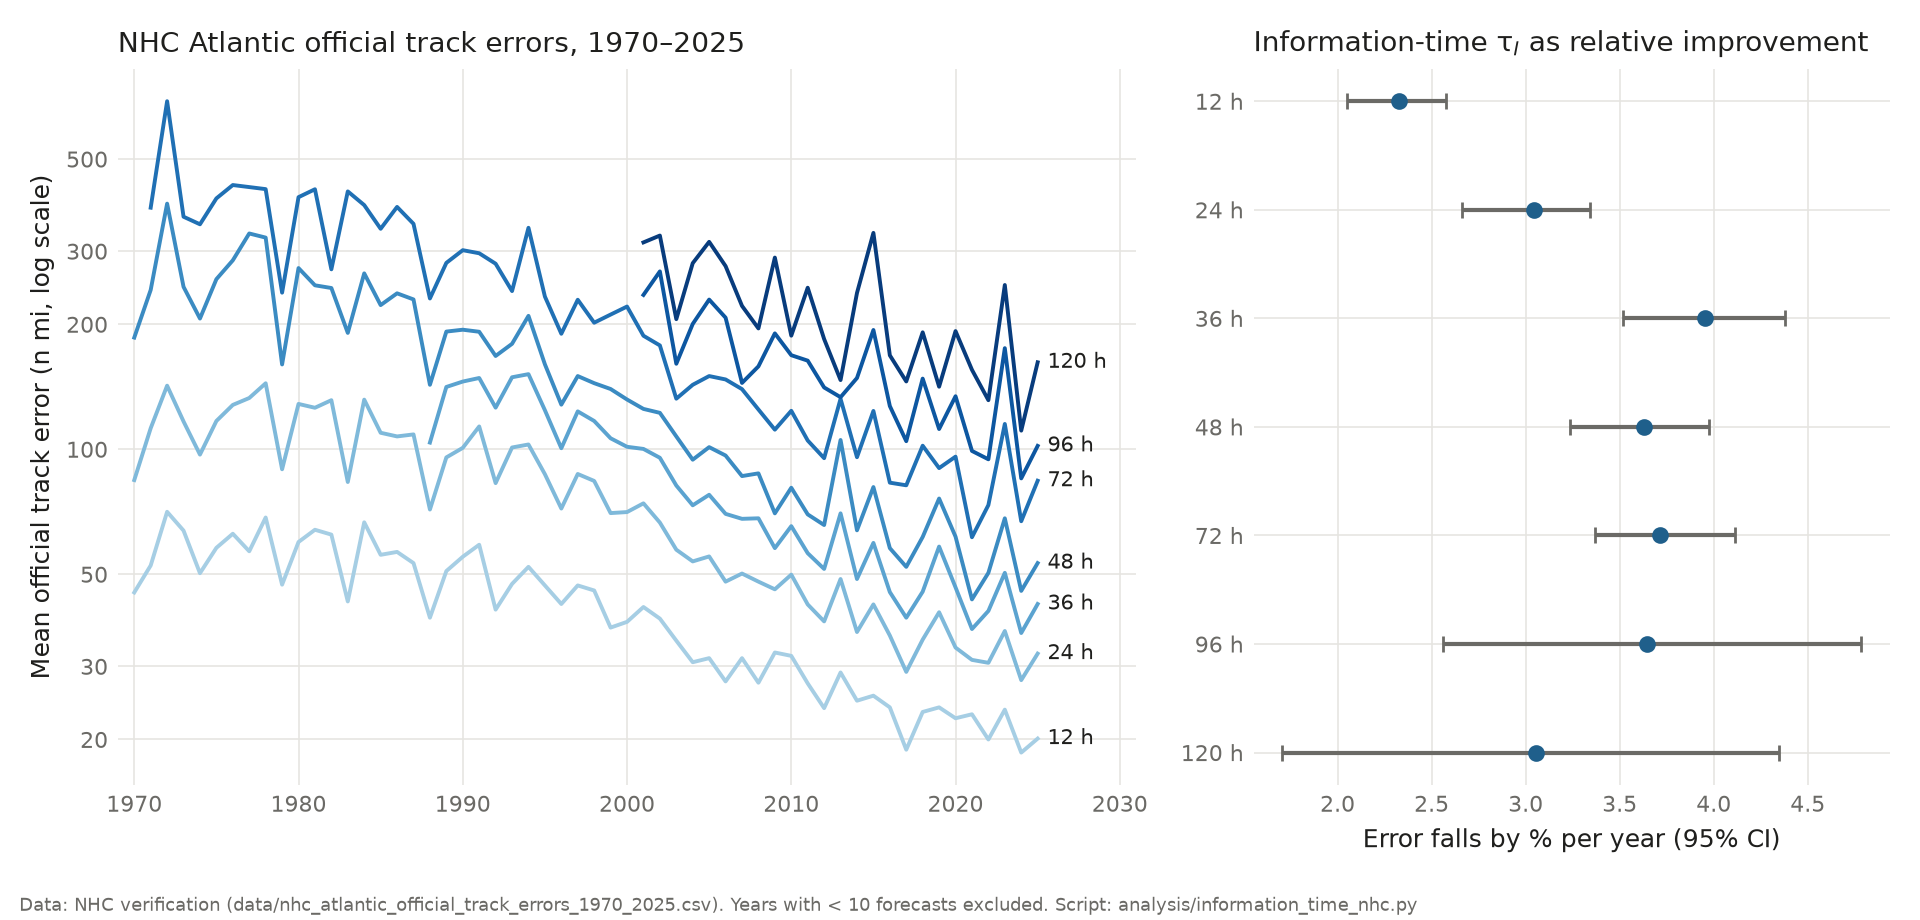
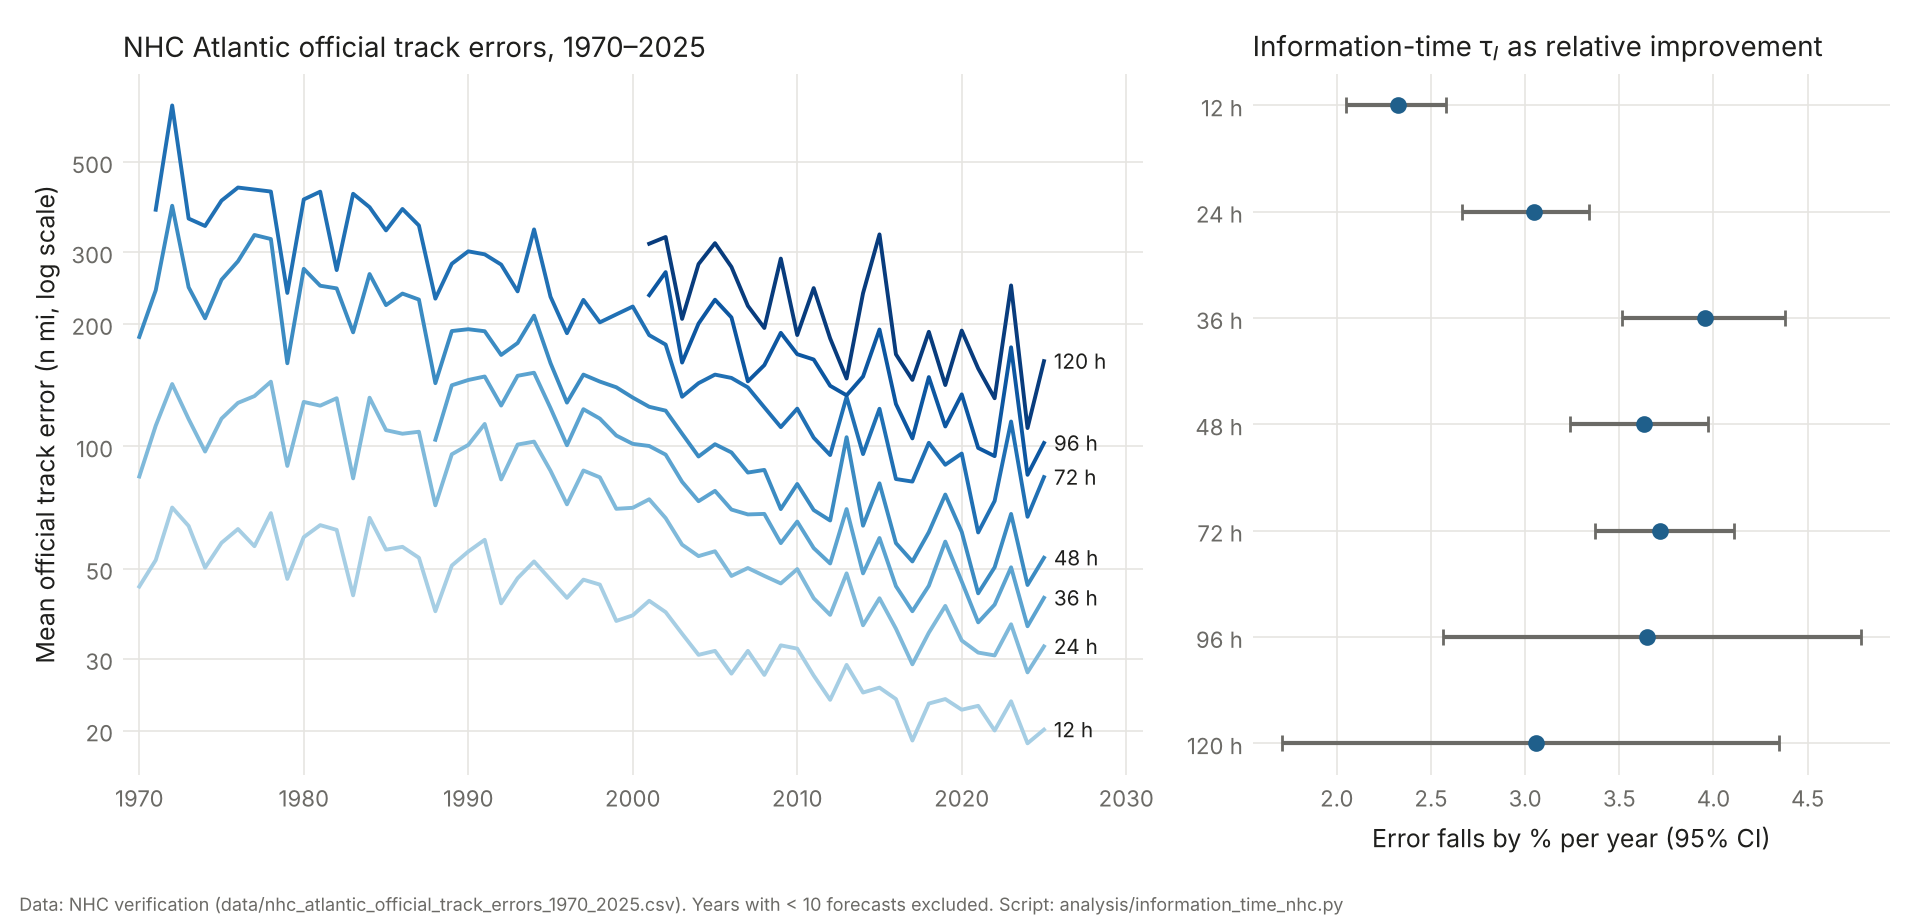
tau_I: optional block-bootstrap interval (default unchanged) and robust check in NHC analysis; tests for analysis/; pyflakes check of analysis/ in CI
Claude-Session: https://claude.ai/code/session_01RH1qHx845bGSbo1c6k5YF7

diff --git a/emo/info_time.py b/emo/info_time.py
@@ -30,7 +30,32 @@ class InfoTimeResult:
     extra: dict[str, float] = field(default_factory=dict)
 
 
-def compute_information_time(skill_series: pd.Series) -> InfoTimeResult:
+def _block_bootstrap_slope_ci(
+    y: np.ndarray, x: np.ndarray, slope: float, intercept: float, block: int, n_boot: int, seed: int
+) -> tuple[float, float]:
+    """95% interval of the Theil–Sen slope from a moving-block bootstrap of residuals.
+
+    Residuals around the fitted trend are resampled in circular blocks of `block` steps,
+    which keeps short-range autocorrelation that the default (independent-errors)
+    interval ignores.
+    """
+    rng = np.random.default_rng(seed)
+    n = len(y)
+    fit = intercept + slope * x
+    resid = y - fit
+    nb = int(np.ceil(n / block))
+    slopes = np.empty(n_boot)
+    for b in range(n_boot):
+        starts = rng.integers(0, n, size=nb)
+        idx = ((starts[:, None] + np.arange(block)[None, :]) % n).ravel()[:n]
+        slopes[b] = theilslopes(fit + resid[idx], x)[0]
+    lo, hi = np.quantile(slopes, [0.025, 0.975])
+    return float(lo), float(hi)
+
+
+def compute_information_time(
+    skill_series: pd.Series, ci: str = "iid", block: int = 5, n_boot: int = 2000, seed: int = 0
+) -> InfoTimeResult:
     """
     Information-time τ_I from a forecast-skill series (higher = better).
 
@@ -46,6 +71,10 @@ def compute_information_time(skill_series: pd.Series) -> InfoTimeResult:
 
     Steps are the series' own sampling steps; for unevenly spaced data the
     slope is per index step, not per calendar day.
+
+    ci="iid" (default, v1.1): scipy's Theil–Sen interval, which assumes independent
+    errors and is too narrow when skill is autocorrelated. ci="block" (v1.2): moving-block
+    bootstrap of residuals (`block` steps, `n_boot` resamples, fixed `seed`).
     """
     s = skill_series.dropna().astype(float)
     n = len(s)
@@ -53,14 +82,21 @@ def compute_information_time(skill_series: pd.Series) -> InfoTimeResult:
         return InfoTimeResult(0.0, 0.0, {"definition": "too_few_points"})
 
     x = np.arange(n, dtype=float)
-    slope, _intercept, lo, hi = theilslopes(s.to_numpy(), x, alpha=0.95)
+    y = s.to_numpy()
+    slope, intercept, lo, hi = theilslopes(y, x, alpha=0.95)
+    definition = "theil_sen_lower_bound_v1.1"
+    if ci == "block":
+        lo, hi = _block_bootstrap_slope_ci(y, x, float(slope), float(intercept), block, n_boot, seed)
+        definition = f"theil_sen_lower_bound_block{block}_v1.2"
+    elif ci != "iid":
+        raise ValueError("ci must be 'iid' or 'block'")
     tau_i = max(0.0, float(lo))
     net_gain = max(0.0, float(slope) * (n - 1))
 
     return InfoTimeResult(
         tau_i=tau_i,
         total_positive_increments=net_gain,
-        metadata={"definition": "theil_sen_lower_bound_v1.1", "units": "skill per step"},
+        metadata={"definition": definition, "units": "skill per step"},
         slope=float(slope),
         slope_ci_low=float(lo),
         slope_ci_high=float(hi),

diff --git a/tests/test_analysis_scripts.py b/tests/test_analysis_scripts.py
@@ -1,0 +1,43 @@
+"""Checks on analysis/ code beyond its weekly runs.
+
+Every analysis script must at least compile; the functions of the session-8 synergy
+analysis are tested directly (the other scripts are top-level code, covered by the weekly
+run and, for RDL and GWI, by the frozen-output check in scripts/weekly_run.py).
+"""
+import importlib.util
+import py_compile
+from pathlib import Path
+
+import numpy as np
+import pandas as pd
+
+ROOT = Path(__file__).resolve().parents[1]
+
+
+def test_every_analysis_script_compiles():
+    for f in sorted((ROOT / "analysis").glob("*.py")):
+        py_compile.compile(str(f), doraise=True)
+
+
+def _synergy_module():
+    spec = importlib.util.spec_from_file_location("synergy_climate", ROOT / "analysis/synergy_climate.py")
+    m = importlib.util.module_from_spec(spec)
+    spec.loader.exec_module(m)
+    return m
+
+
+def test_residuals_remove_trend_and_season_exactly():
+    m = _synergy_module()
+    t = np.arange(m.T)
+    season = np.tile(np.arange(12) * 0.1, m.T // 12)
+    y = pd.DataFrame({"a": 2 + 0.03 * t + season, "b": -1 - 0.01 * t + 2 * season}, index=m.MONTHS)
+    assert np.allclose(m.residuals(y).to_numpy(), 0, atol=1e-9)
+
+
+def test_shift_pairs_obey_protocol():
+    m = _synergy_module()
+    pairs = m.shifts()
+    assert len(pairs) == len(set(pairs)) == 7310
+    for s2, s3 in pairs:
+        d = abs(s2 - s3)
+        assert 12 <= s2 <= 108 and 12 <= s3 <= 108 and min(d, m.T - d) >= 12

diff --git a/tests/unit/test_info_time_block.py b/tests/unit/test_info_time_block.py
@@ -1,0 +1,35 @@
+"""τ_I interval under autocorrelation: the block bootstrap must not credit a trend to
+autocorrelated noise more often than the independent-errors interval does."""
+import numpy as np
+import pandas as pd
+import pytest
+
+from emo.info_time import compute_information_time
+
+
+def _ar1(n, phi, rng):
+    e = np.zeros(n)
+    for t in range(1, n):
+        e[t] = phi * e[t - 1] + rng.normal()
+    return e
+
+
+def test_block_ci_fewer_false_trends_on_ar1_noise():
+    rng = np.random.default_rng(11)
+    iid = block = 0
+    for _ in range(30):
+        s = pd.Series(_ar1(56, 0.8, rng))
+        iid += compute_information_time(s).tau_i > 0
+        block += compute_information_time(s, ci="block", n_boot=200).tau_i > 0
+    assert block < iid
+
+
+def test_block_ci_keeps_a_strong_trend_and_default_unchanged():
+    rng = np.random.default_rng(12)
+    s = pd.Series(0.5 * np.arange(56) + rng.normal(size=56))
+    a = compute_information_time(s)
+    b = compute_information_time(s, ci="block", n_boot=300)
+    assert b.tau_i > 0 and a.slope == b.slope
+    assert a.metadata["definition"] == "theil_sen_lower_bound_v1.1"
+    with pytest.raises(ValueError):
+        compute_information_time(s, ci="other")

diff --git a/analysis/information_time_nhc.py b/analysis/information_time_nhc.py
@@ -32,6 +32,13 @@ for lead in [12, 24, 36, 48, 72, 96, 120]:
           f"{pct(rl.slope):>6.2f}% [{pct(rl.slope_ci_low):5.2f},{pct(rl.slope_ci_high):5.2f}]")
     rows.append((lead, s, pct(rl.slope), pct(rl.slope_ci_low), pct(rl.slope_ci_high)))
 
+print("\n[robust] 95% CI from a moving-block bootstrap (block 5 years, 2000 resamples), "
+      "which allows for autocorrelated years; same point estimates as above:")
+for lead, ser, mid_pct, *_ in rows:
+    rb = compute_information_time(-np.log(ser), ci="block", block=5, n_boot=2000, seed=0)
+    print(f"{lead:>4}h  {mid_pct:6.2f}%/yr  [{pct(rb.slope_ci_low):5.2f}, {pct(rb.slope_ci_high):5.2f}]  "
+          f"improvement still demonstrated: {rb.tau_i > 0}")
+
 s = d[(d.lead_h == 48) & (d.n_forecasts >= 10)].set_index("year").error_nmi.sort_index()
 rng = np.random.default_rng(0)
 z = [compute_information_time(pd.Series(-rng.permutation(s.values))).tau_i for _ in range(200)]
